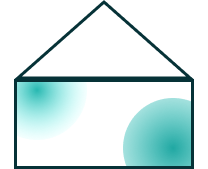
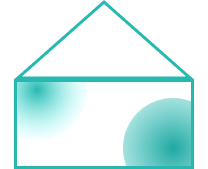
chnaged sumbit button, mailbox colour

Changed region(s): [[0.0577, 0.0, 0.9519, 1.0], [0.3462, 0.1479, 0.375, 0.1775]]

diff --git a/src/components/ContactForm.jsx b/src/components/ContactForm.jsx
@@ -70,7 +70,7 @@ const ContactForm = () => {
       <div>
         <button
           type='submit'
-          className='mt-4 bg-opacity-0 border-2 border-DarkerGreen text-LightGreen w-full h-10 hover:text-white text-lg font-semibold bounce-to-right'
+          className='mt-4 bg-opacity-0 border-2 border-LightGreen text-LightGreen w-full h-10 hover:text-black hover:border-DarkerGreen text-lg font-semibold bounce-to-right transition-all duration-300 ease-in-out'
         >
           Submit
         </button>

diff --git a/src/index.css b/src/index.css
@@ -411,7 +411,7 @@ code {
   left: 0;
   right: 0;
   bottom: 0;
-  background: #115f61;
+  background: #27b8b1;
   -webkit-transform: scaleX(0);
   transform: scaleX(0);
   -webkit-transform-origin: 0 50%;
